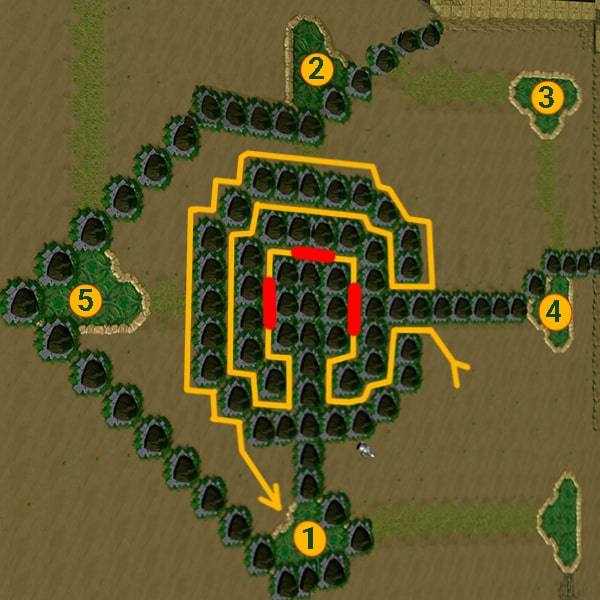
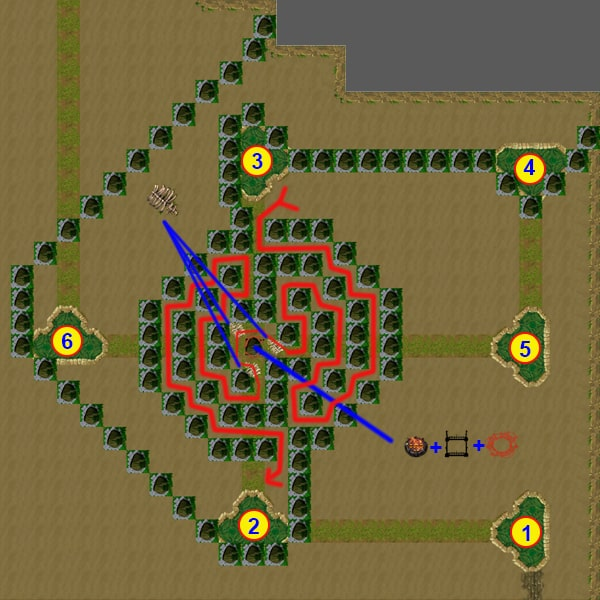
Updated Maze and fix minor bugs

diff --git a/README.md b/README.md
@@ -2,7 +2,7 @@
 
 An interactive web-based tool to help players of Gem TD+ (a Warcraft III custom map) track gems, plan tower combinations, and optimize their defense strategy.
 
-## 🎮 [Try it out](https://yourusername.github.io/gemtd-helper/)
+## 🎮 [Try it out](https://gemtd.top/)
 
 ![Gem TD+ Helper Screenshot](inc/screenshot.jpg)
 
@@ -16,7 +16,7 @@ An interactive web-based tool to help players of Gem TD+ (a Warcraft III custom 
 
 ## How to Use
 
-1. Visit the [Gem TD+ Helper](https://yourusername.github.io/gemtd-helper/) web app
+1. Visit the [Gem TD+ Helper](hhttps://gemtd.top/) web app
 2. Click on gems to mark them as acquired (they'll highlight in green)
 3. Use the information buttons (ⓘ) to view detailed tower stats
 4. Reference the maze design for optimal tower placement
@@ -39,9 +39,9 @@ An interactive web-based tool to help players of Gem TD+ (a Warcraft III custom 
 
 ```bash
 # Clone the repository
-git clone https://github.com/yourusername/gemtd-helper.git
+git clone https://github.com/gemtd-top/gemtd-top.git
 
 # Navigate to the project directory
-cd gemtd-helper
+cd gemtd-top
 
 # Open index.html in your browser
